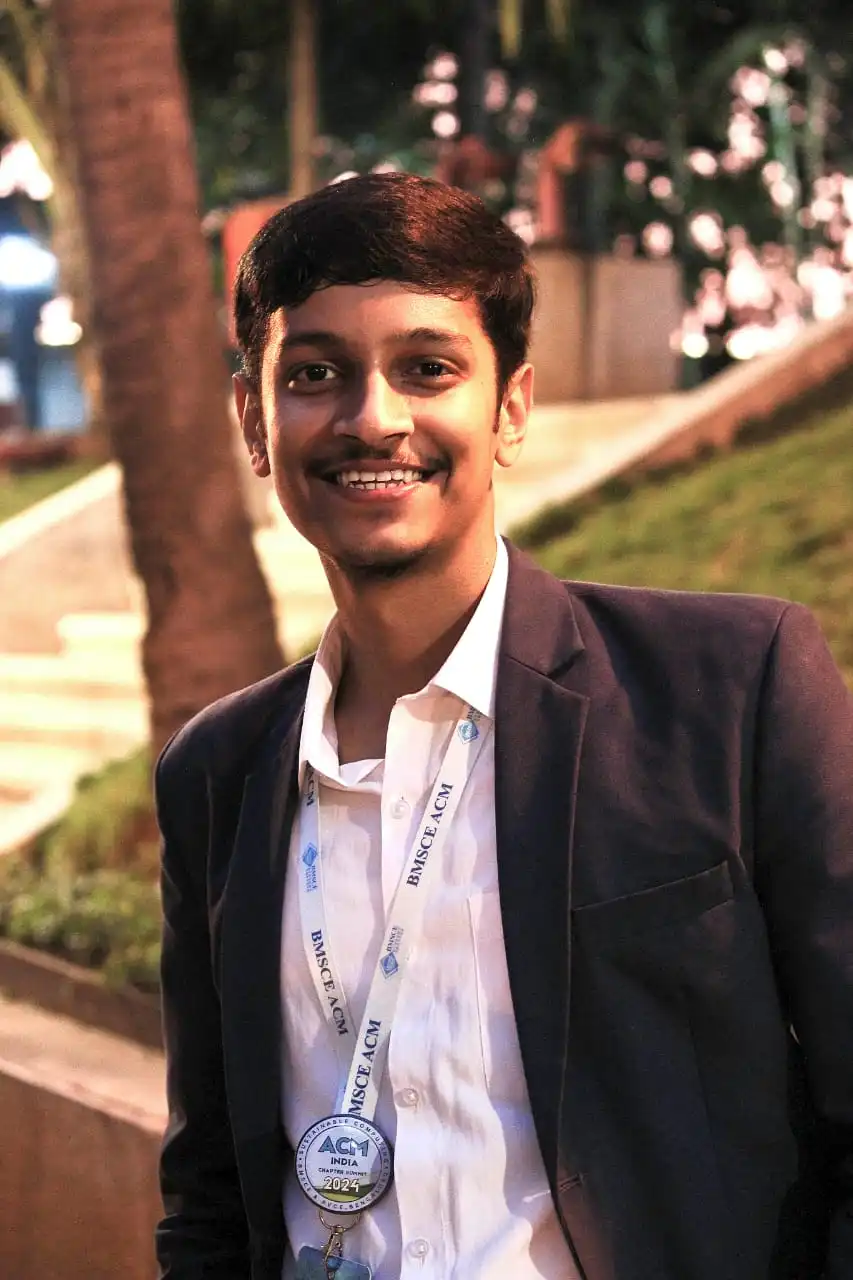
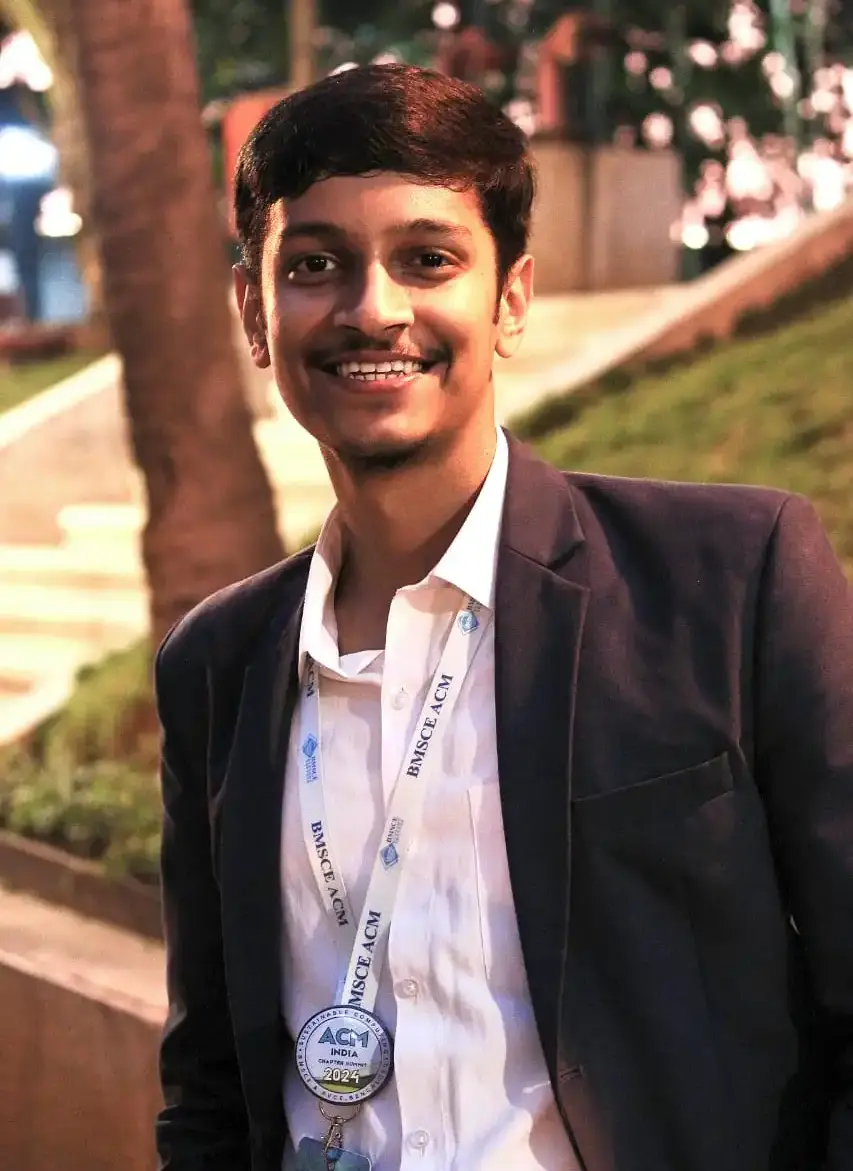
navbar fixed

diff --git a/src/components/Navbar.jsx b/src/components/Navbar.jsx
@@ -379,15 +379,20 @@ const NavBar = () => {
         ref={navContainerRef}
         className="fixed inset-x-3 top-4 z-50 h-16 border-none bg-black/20 backdrop-blur-md transition-all duration-700 sm:inset-x-5 rounded-lg"
       >
-        <header className="absolute top-1/2 w-full -translate-y-1/2">
-          <nav className="flex size-full items-center justify-between p-4 fixed top-0 left-0 w-full z-50">
-            <div className="flex items-center gap-7">
+        {/* 1. Ensure header takes full height of the h-16 wrapper */}
+        <header className="h-full w-full">
+          
+          {/* 2. Use simple Flexbox (h-full + items-center) to vertically center everything. Removed the rogue "fixed top-0" */}
+          <nav className="flex h-full w-full items-center justify-between px-6">
+            
+            <div className="flex items-center">
               <Link to="/">
                 <img src="/img/logo.png" alt="logo" className="w-[5rem]" />
               </Link>
             </div>
 
-            <div className="hidden md:flex h-full items-center gap-3">
+            {/* 3. This container pushes to the right (via justify-between on parent) and centers its contents vertically */}
+            <div className="hidden md:flex items-center gap-6">
               {/* Desktop Navigation Items */}
               {navItems.map((item, index) => renderNavItem(item, index))}
 
